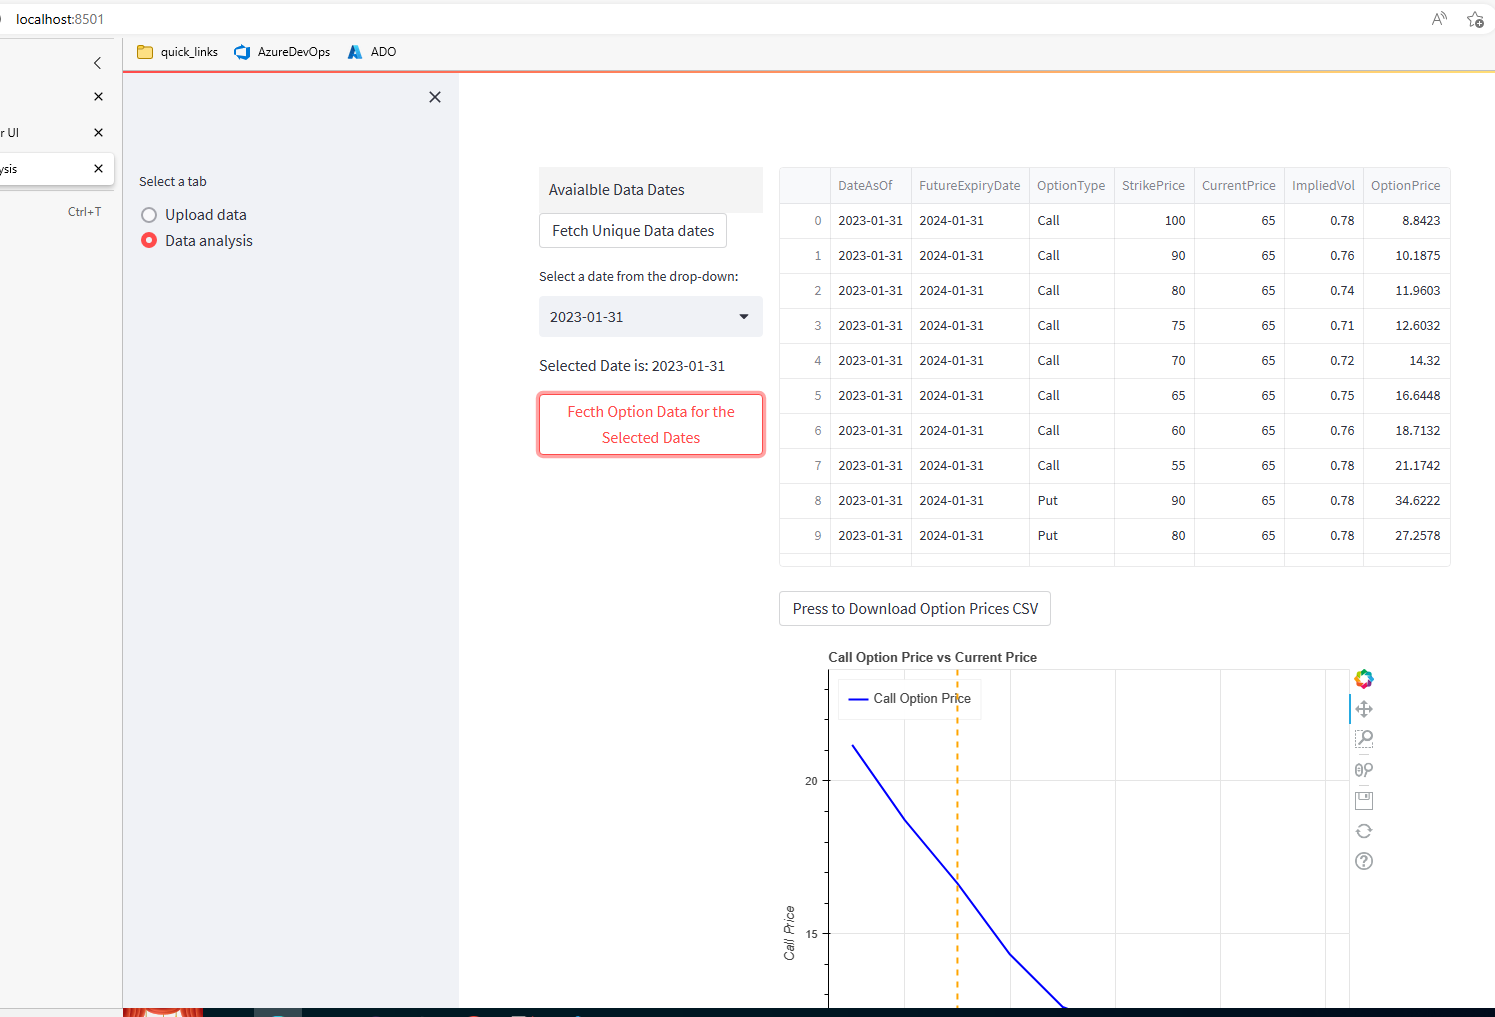
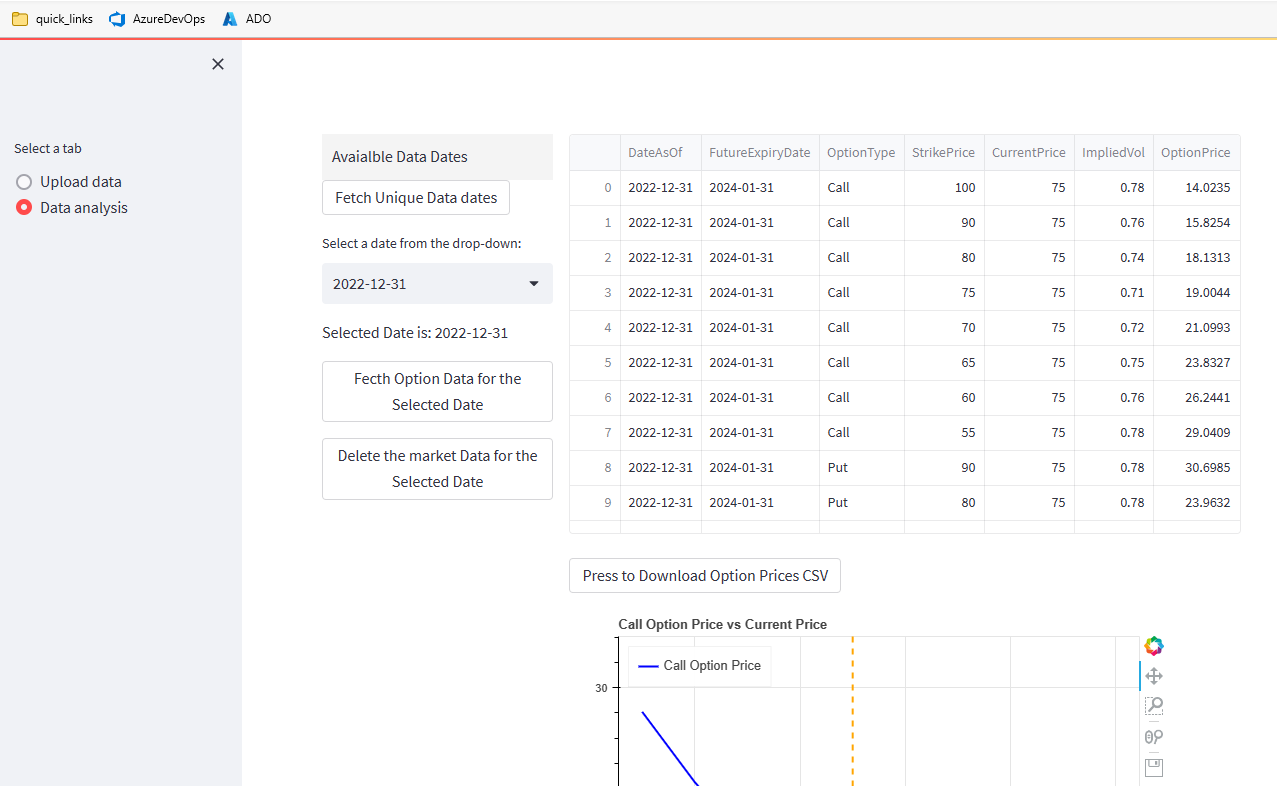
Delete button is added to data analysis page
Delete button is added to data analysis page

diff --git a/src/gui/data_analysis.py b/src/gui/data_analysis.py
@@ -48,25 +48,27 @@ class DataAnalysisPage(IWebPage):
                     st.session_state["unique_dates"] = None
 
                 if st.button("Fetch Unique Data dates"):
-                
                     config_url_fetch_unique_dates = self.config.get("GUI_URLS", "fetchuniqutedatesURL")
                     host = self.config.get("API", "host")
                     port = self.config.get("API", "port")
                     url_fetch_unique_dates =  "http://" + host + ":" + port  + config_url_fetch_unique_dates                
                     response_unique_dates = requests.get(url_fetch_unique_dates)
-                    response_unique_dates_str = response_unique_dates.text
+                    if response_unique_dates.status_code == 200:
+                        response_unique_dates_str = response_unique_dates.text
 
-                    # Parse the top-level JSON object
-                    response_unique_dates_obj = json.loads(response_unique_dates_str)
+                        # Parse the top-level JSON object
+                        response_unique_dates_obj = json.loads(response_unique_dates_str)
 
-                    # Extract the "success" value as a string
-                    dates_str = response_unique_dates_obj["success"]
-                    dates_arr = json.loads(dates_str)
-                    unique_dates = pd.DataFrame(dates_arr, columns=["date"])
-                    # Convert the date column to datetime objects (for formatting)
-                    unique_dates["date"] = pd.to_datetime(unique_dates["date"], format="%Y%m%d")
-                    unique_dates["date"] = unique_dates["date"].dt.strftime("%Y-%m-%d")
-                    st.session_state.unique_dates = unique_dates
+                        # Extract the "success" value as a string
+                        dates_str = response_unique_dates_obj["success"]
+                        dates_arr = json.loads(dates_str)
+                        unique_dates = pd.DataFrame(dates_arr, columns=["date"])
+                        # Convert the date column to datetime objects (for formatting)
+                        unique_dates["date"] = pd.to_datetime(unique_dates["date"], format="%Y%m%d")
+                        unique_dates["date"] = unique_dates["date"].dt.strftime("%Y-%m-%d")
+                        st.session_state.unique_dates = unique_dates
+                    else:
+                        st.error("Error fetching unique dates: " + str(response_unique_dates.status_code))
                 
                 
                 if st.session_state.unique_dates is not None:
@@ -75,12 +77,10 @@ class DataAnalysisPage(IWebPage):
                     selected_date = st.session_state.selected_date
                     st.session_state.page2_selected_date   = selected_date
 
-
                 if st.session_state["page2_selected_date"] is not None:                
                     st.write(f"Selected Date is: ", st.session_state.page2_selected_date)
                     
-                    
-                if st.button("Fecth Option Data for the Selected Dates"):
+                if st.button("Fecth Option Data for the Selected Date"):
                     try:
                         if st.session_state["page2_selected_date"] is not None:
                             #st.write(f"Feching market data for the Date is: ", st.session_state.page2_selected_date)
@@ -104,7 +104,22 @@ class DataAnalysisPage(IWebPage):
                             self.create_option_pricing_plot(container_R2, option_price_data_df)
                     except HTTPException as e:
                         st.error(e.detail)    
-                        
+
+                if st.button("Delete the market Data for the Selected Date"):
+                
+                    config_url_delete_unique_date = self.config.get("GUI_URLS", "deleteDataAsOfURL")
+                    host_delete = self.config.get("API", "host")
+                    port_delete = self.config.get("API", "port")
+                    selected_date_obj_delete = datetime.strptime(st.session_state.page2_selected_date, "%Y-%m-%d")
+                    selected_date_delete_yyyymmdd = selected_date_obj_delete.strftime("%Y%m%d")
+                    url_delete_unique_dates =  "http://" + host_delete + ":" + port_delete  +  "/" + config_url_delete_unique_date  + selected_date_delete_yyyymmdd +  "/"      
+                    response_unique_dates = requests.delete(url_delete_unique_dates)
+                    response_unique_dates_str = response_unique_dates.text
+                    response_unique_dates_obj = json.loads(response_unique_dates_str)      
+
+                    delete_api_return_message = response_unique_dates_obj["success"]                     
+                    st.write(delete_api_return_message + "for the date : " + str(st.session_state.page2_selected_date))
+
     def write_this_data_in_C1(self, container_R1, option_price_data_df):
         with container_R1:
             st.write(option_price_data_df)
@@ -157,3 +172,5 @@ class DataAnalysisPage(IWebPage):
         sorted_df["FutureExpiryDate"] = pd.to_datetime(sorted_df["FutureExpiryDate"], format="%Y%m%d").dt.strftime("%Y-%m-%d")
         return sorted_df
 
+    # def delete_data_for_selected_date(self, 
+    # )
